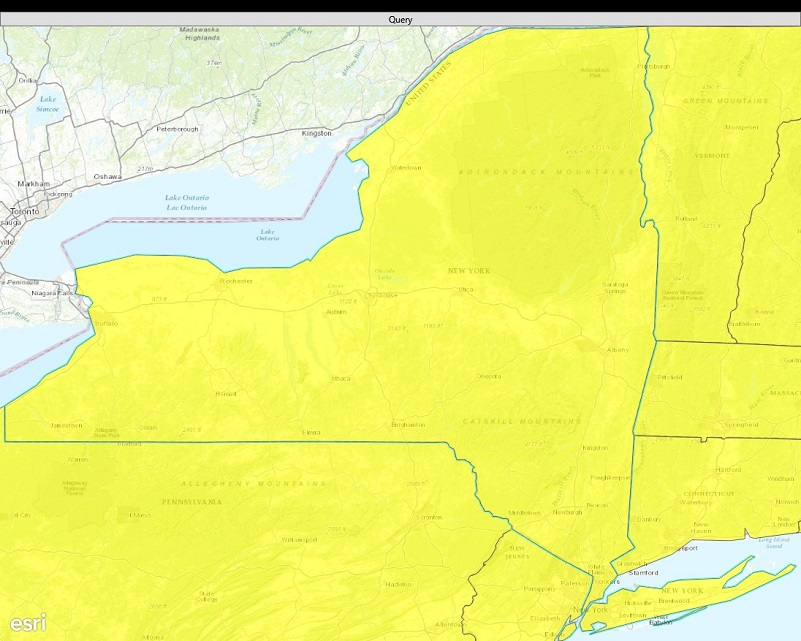
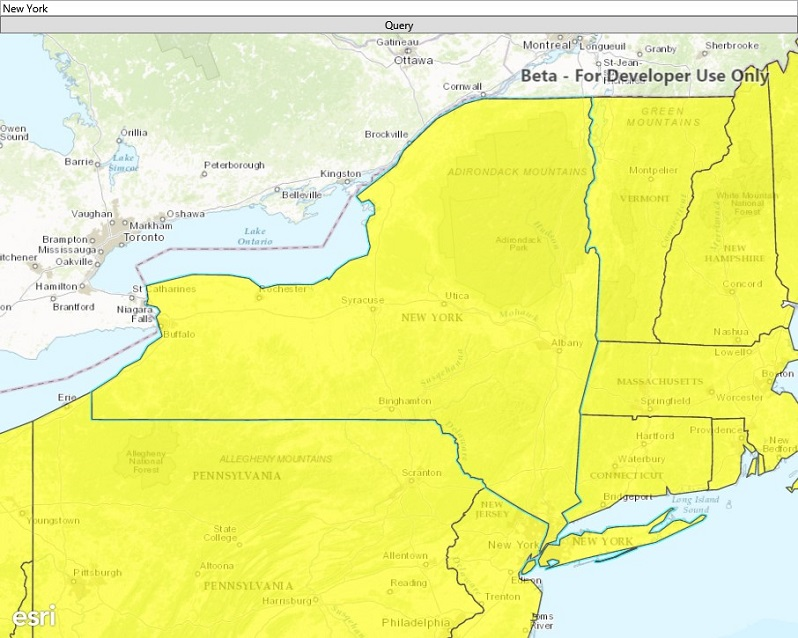
Update the WPF and UWP FeatureLayerQuery sample (C# and VB.NET)

diff --git a/src/Windows/ArcGISRuntime.Windows.Samples/Samples/Data/FeatureLayerQuery/FeatureLayerQuery.xaml b/src/Windows/ArcGISRuntime.Windows.Samples/Samples/Data/FeatureLayerQuery/FeatureLayerQuery.xaml
@@ -4,33 +4,14 @@
     xmlns:x="http://schemas.microsoft.com/winfx/2006/xaml"
     xmlns:esriUI="using:Esri.ArcGISRuntime.UI">
     <Grid>
-        <esriUI:MapView x:Name="MyMapView"/>
-        <Border Background="White" 
-                Margin="20" Padding="20" 
-                VerticalAlignment="Top" HorizontalAlignment="Right" 
-                Width="280">
-            <RelativePanel HorizontalAlignment="Center">
-                <TextBlock x:Name="StateNameLabel" 
-                           Margin="0,5"
-                           Text="State name:"/>
-                <TextBox x:Name="StateNameTextBox"
-                         RelativePanel.RightOf="StateNameLabel"
-                         Margin="10,0"
-                         Width="130"
-                         Text="Utah"/>
-                <Button x:Name="QueryStatesButton"
-                        RelativePanel.Below="StateNameTextBox"
-                        HorizontalAlignment="Center"
-                        Margin="5"
-                        Width="220"
-                        Content="Query"
-                        Click="OnQueryClicked"/>
-                <TextBlock x:Name="MessagesTextBlock"
-                           RelativePanel.Below="QueryStatesButton"
-                           Margin="5"
-                           TextWrapping="Wrap"
-                           Foreground="Red"/>
-            </RelativePanel>
-        </Border>
+        <Grid.RowDefinitions>
+            <RowDefinition Height="auto" />
+            <RowDefinition Height="*" />
+        </Grid.RowDefinitions>
+        <StackPanel  Orientation="Vertical" Grid.Row="0">
+            <TextBox x:Name="queryEntry" Text="New York"/>
+            <Button Content="Query" Click="OnQueryClicked"/>
+        </StackPanel>
+        <esriUI:MapView x:Name="myMapView" Grid.Row="1"/>
     </Grid>
 </UserControl>

diff --git a/src/Windows/ArcGISRuntime.Windows.Samples/Samples/Data/FeatureLayerQuery/FeatureLayerQueryVB.xaml b/src/Windows/ArcGISRuntime.Windows.Samples/Samples/Data/FeatureLayerQuery/FeatureLayerQueryVB.xaml
@@ -4,33 +4,14 @@
     xmlns:x="http://schemas.microsoft.com/winfx/2006/xaml"
     xmlns:esriUI="using:Esri.ArcGISRuntime.UI">
     <Grid>
-        <esriUI:MapView x:Name="MyMapView"/>
-        <Border Background="White" 
-                Margin="20" Padding="20" 
-                VerticalAlignment="Top" HorizontalAlignment="Right" 
-                Width="280">
-            <RelativePanel HorizontalAlignment="Center">
-                <TextBlock x:Name="StateNameLabel" 
-                           Margin="0,5"
-                           Text="State name:"/>
-                <TextBox x:Name="StateNameTextBox"
-                         RelativePanel.RightOf="StateNameLabel"
-                         Margin="10,0"
-                         Width="130"
-                         Text="Utah"/>
-                <Button x:Name="QueryStatesButton"
-                        RelativePanel.Below="StateNameTextBox"
-                        HorizontalAlignment="Center"
-                        Margin="5"
-                        Width="220"
-                        Content="Query"
-                        Click="OnQueryClicked"/>
-                <TextBlock x:Name="MessagesTextBlock"
-                           RelativePanel.Below="QueryStatesButton"
-                           Margin="5"
-                           TextWrapping="Wrap"
-                           Foreground="Red"/>
-            </RelativePanel>
-        </Border>
+        <Grid.RowDefinitions>
+            <RowDefinition Height="auto" />
+            <RowDefinition Height="*" />
+        </Grid.RowDefinitions>
+        <StackPanel  Orientation="Vertical" Grid.Row="0">
+            <TextBox x:Name="queryEntry" Text="New York"/>
+            <Button Content="Query" Click="OnQueryClicked"/>
+        </StackPanel>
+        <esriUI:MapView x:Name="myMapView" Grid.Row="1"/>
     </Grid>
 </UserControl>

diff --git a/src/Windows/ArcGISRuntime.Windows.Samples/Samples/Data/FeatureLayerQuery/FeatureLayerQuery.xaml.cs b/src/Windows/ArcGISRuntime.Windows.Samples/Samples/Data/FeatureLayerQuery/FeatureLayerQuery.xaml.cs
@@ -13,6 +13,7 @@ using Esri.ArcGISRuntime.Mapping;
 using Esri.ArcGISRuntime.Symbology;
 using System;
 using System.Linq;
+using System.Threading.Tasks;
 using Windows.UI;
 using Windows.UI.Popups;
 using Windows.UI.Xaml;
@@ -34,108 +35,92 @@ namespace ArcGISRuntime.Windows.Samples.FeatureLayerQuery
         {
             InitializeComponent();
 
-            // Call a function that will create a basemap, the US states layer, and load a new map into the map view
-            InitializeMap();
+            // Create the UI, setup the control references and execute initialization 
+            Initialize();
         }
 
-        private void InitializeMap()
+        private void Initialize()
         {
-            // Create a new Map with the Topographic basemap
+            // Create new Map with basemap
             Map myMap = new Map(Basemap.CreateTopographic());
 
-            // Set an initial map location that shows the entire United States
-            MapPoint initialLocation = new MapPoint(-11000000, 5000000, SpatialReferences.WebMercator);
+            // Create and set initial map location
+            MapPoint initialLocation = new MapPoint(
+                -11000000, 5000000, SpatialReferences.WebMercator);
             myMap.InitialViewpoint = new Viewpoint(initialLocation, 100000000);
 
-            // Create a feature table using the US states service endpoint url
+            // Create feature table using a url
             _featureTable = new ServiceFeatureTable(new Uri(_statesUrl));
-            
-            // Create a feature layer using this feature table
+
+            // Create feature layer using this feature table
             _featureLayer = new FeatureLayer(_featureTable);
 
-            // Set the Opacity of the Feature Layer so it's semi-transparent
+            // Set the Opacity of the Feature Layer
             _featureLayer.Opacity = 0.6;
 
-            // Create an outline and fill symbol for rendering the States layer
-            SimpleLineSymbol lineSymbol = new SimpleLineSymbol
-            {
-                Style =SimpleLineSymbolStyle.Solid,
-                Color = Colors.Black,
-                Width = 1
-            };
-            SimpleFillSymbol fillSymbol = new SimpleFillSymbol
-            {
-                Style = SimpleFillSymbolStyle.Solid,
-                Color = Colors.Yellow,
-                Outline = lineSymbol
-            };
-            
-            // Apply the fill symbol to the States feature layer using a simple renderer
+            // Create a new renderer for the States Feature Layer
+            SimpleLineSymbol lineSymbol = new SimpleLineSymbol(
+                SimpleLineSymbolStyle.Solid, Colors.Black, 1);
+            SimpleFillSymbol fillSymbol = new SimpleFillSymbol(
+                SimpleFillSymbolStyle.Solid, Colors.Yellow, lineSymbol);
+
+            // Set States feature layer renderer
             _featureLayer.Renderer = new SimpleRenderer(fillSymbol);
 
-            // Define selection symbol properties for the layer (color and line width)
-            _featureLayer.SelectionColor = Colors.Red;
-            _featureLayer.SelectionWidth = 10;
-
-            // Add the feature layer to the map
+            // Add feature layer to the map
             myMap.OperationalLayers.Add(_featureLayer);
 
             // Assign the map to the MapView
-            MyMapView.Map = myMap;            
+            myMapView.Map = myMap;
         }
 
-        // Handler for the QueryStatesButton button click event
-        private void OnQueryClicked(object sender, RoutedEventArgs e)
+        private async void OnQueryClicked(object sender, RoutedEventArgs e)
         {
-            // Remove any previous feature selections and messages
+            // Remove any previous feature selections that may have been made 
             _featureLayer.ClearSelection();
-            MessagesTextBlock.Text = string.Empty;
 
-            // Call a function that will query states using the text entered 
-            QueryStatesTable(StateNameTextBox.Text);
+            // Begin query process 
+            await QueryStateFeature(queryEntry.Text);
         }
 
-        // Query features in the US States layer using STATE_NAME attribute values
-        private async void QueryStatesTable(string stateName)
+        private async Task QueryStateFeature(string stateName)
         {
             try
             {
-                // Create a QueryParameters object to define the query  
+                // Create a query parameters that will be used to Query the feature table  
                 QueryParameters queryParams = new QueryParameters();
-                
-                // Assign a where clause that finds features with a matching STATE_NAME value
-                queryParams.WhereClause = "upper(STATE_NAME) = '" + (stateName.ToUpper().Trim() + "'");
 
-                // Restrict the query results to a single feature
-                queryParams.MaxFeatures = 1;
-                
-                // Query the feature table using the QueryParameters
+                // Construct and assign the where clause that will be used to query the feature table 
+                queryParams.WhereClause = "upper(STATE_NAME) LIKE '%" + (stateName.ToUpper()) + "%'";
+
+                // Query the feature table 
                 FeatureQueryResult queryResult = await _featureTable.QueryFeaturesAsync(queryParams);
 
-                // Check for a valid feature in the results
-                Feature stateResult = queryResult.FirstOrDefault();
-                
-                // If a result was found, select it in the map and zoom to its extent
-                if (stateResult != null)
-                {
-                    // Select (highlight) the matching state in the layer
-                    _featureLayer.SelectFeature(stateResult);
+                // Cast the QueryResult to a List so the results can be interrogated
+                var features = queryResult.ToList();
 
-                    // Zoom to the extent of the feature (with 100 pixels of padding around the shape)
-                    await MyMapView.SetViewpointGeometryAsync(stateResult.Geometry.Extent, 100);
+                if (features.Any())
+                {
+                    // Get the first feature returned in the Query result 
+                    Feature feature = features[0];
+
+                    // Add the returned feature to the collection of currently selected features
+                    _featureLayer.SelectFeature(feature);
+
+                    // Zoom to the extent of the newly selected feature
+                    await myMapView.SetViewpointGeometryAsync(feature.Geometry.Extent);
                 }
                 else
                 {
-                    //Inform the user that the query was unsuccessful
-                    MessagesTextBlock.Text = stateName + " was not found.";
+                    var message = new MessageDialog("State Not Found!", "Add a valid state name.");
+                    await message.ShowAsync();
                 }
             }
             catch (Exception ex)
             {
-                // Inform the user that an exception was encountered
-                var message = new MessageDialog("An error occurred: " + ex.ToString(), "Sample error");
+                var message = new MessageDialog("Sample error: " + ex.ToString(), "An error occurred");
                 await message.ShowAsync();
             }
-        }          
+        }
     }
 }
